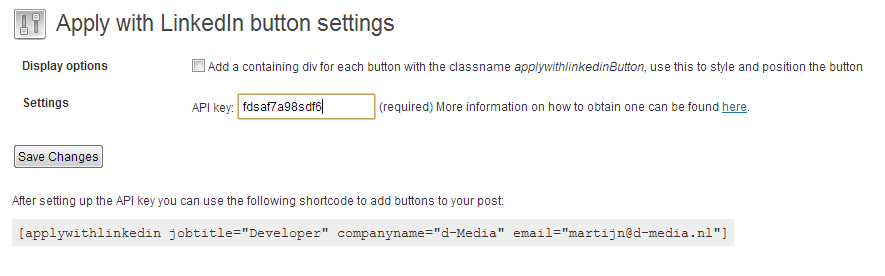
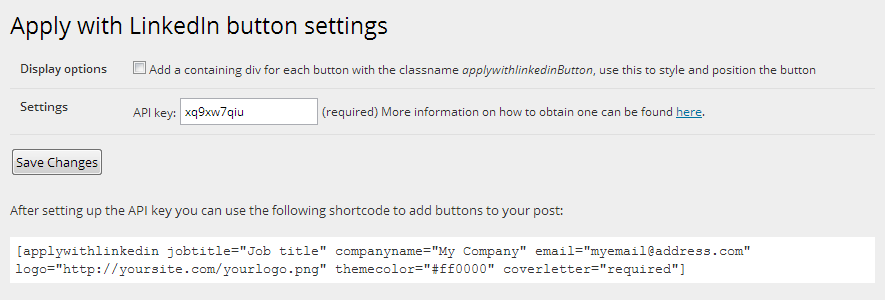
tagging version 1.1
git-svn-id: https://plugins.svn.wordpress.org/apply-with-linkedin-buttons/tags/1.1@735929 b8457f37-d9ea-0310-8a92-e5e31aec5664

diff --git a/applywithlinkedin.php b/applywithlinkedin.php
@@ -4,7 +4,7 @@ Plugin Name: Apply with LinkedIn buttons
 Plugin URI: http://wordpress.org/extend/plugins/apply-with-linkedin-buttons/
 Description: Use this plugin to easily add "Apply with LinkedIn" buttons to job opening posts and lets you customize them
 Author: Martijn Heesters - d-Media
-Version: 1.0
+Version: 1.0.1
 Author URI: http://d-media.nl
 */
 
@@ -28,7 +28,7 @@ function add_applywithlinkedin_js(){
 }
 
 // shortcode for adding linkedin buttons to post
-//[applywithlinkedin jobtitle="Developer" companyname="d-Media" email="martijn@d-media.nl"]
+//[applywithlinkedin jobtitle="Job title" companyname="My Company" email="myemail@address.com" logo="http://yoursite.com/yourlogo.png" themecolor="#ff0000" coverletter="required"]
 function applywithlinkedin_sc_func( $atts ) {
 	extract( shortcode_atts( array(
 		'jobtitle' => '',
@@ -36,21 +36,25 @@ function applywithlinkedin_sc_func( $atts ) {
 		'email' => '',
 		'logo' => '',
 		'themecolor' => '',
+		'coverletter' => ''
 	), $atts ) );
-	// clean vars
-	$jobtitle=strip_tags($jobtitle);
-	$companyname=strip_tags($companyname);
-	$email=strip_tags($email);
-	$logo=strip_tags($omschrijving);
-	$themecolor=strip_tags($themecolor);
-	if ($logo != ''){ $logo='data-logo="'.$logo.'"'; }
-	if ($themecolor != ''){ $themecolor='data-themecolor="'.$themecolor.'"'; }
-	// build button
-	$result='<script type="IN/Apply" data-jobtitle="'.$jobtitle.'" data-email="'.$email.'" data-companyname="'.$companyname.'" '.$logo.' '.$themecolor.' ></script>';
-	// add div for styling
-	if ( get_option( 'applywithlinkedin_divstyling' ) == 1){ $result='<div class="applywithlinkedinButton">'.$result.'</div>'; }
-	// return button
-	return $result;
+	// check if set email address is my work email address (author). Some people won't change it so i get spammed
+	if ( $email == 'martijn@d-media.nl'){
+		return 'Please notify website administrator to check the email addresses used in the shortcodes of the "Apply with LinkedIn" plugin. The current address is still set to the authors email address';
+	} else {
+		// clean vars
+		if (( $coverletter != 'optional' ) && ( $coverletter != 'required' ) ){	$coverletter = 'hidden'; } // optional, required or hidden (default)
+		$logo = sanitize_text_field( $logo ); // http://www.xyzcompany.com/images/logo.png
+		if ($logo != ''){ $logo='data-logo="'.$logo.'"'; }
+		$themecolor = sanitize_text_field( $themecolor ); // #ff0000
+		if ($themecolor != ''){ $themecolor='data-themecolor="'.$themecolor.'"'; }
+		// build button
+		$result='<script type="IN/Apply" data-jobtitle="'.sanitize_text_field($jobtitle).'" data-email="'.sanitize_text_field($email).'" data-companyname="'.sanitize_text_field($companyname).'" '.$logo.' '.$themecolor.' data-coverLetter="'.$coverletter.'"></script>';
+		// add div for styling
+		if ( get_option( 'applywithlinkedin_divstyling' ) == 1){ $result='<div class="applywithlinkedinButton">'.$result.'</div>'; }
+		// return button
+		return $result;
+	}
 }
 add_shortcode( 'applywithlinkedin', 'applywithlinkedin_sc_func' );
 
@@ -114,7 +118,9 @@ function applywithlinkedin_options_page(){
             </form>
 
 			After setting up the API key you can use the following shortcode to add buttons to your post:<br /><br />
-			<span style="font-family: Courier;font-size: 14px;background-color: #eeeeee;padding: 5px;">[applywithlinkedin jobtitle="Developer" companyname="d-Media" email="martijn@d-media.nl"]</span>
+			<span style="display:block;font-family: Courier !important;font-size: 14px;background-color: #fff;padding: 5px;">[applywithlinkedin jobtitle="Job title" companyname="My Company" email="myemail@address.com" logo="http://yoursite.com/yourlogo.png" themecolor="#ff0000" coverletter="required"]</span>
+			<br />
+			Note that setting a logo, theme color or cover letter is optional. The possible values for cover letter are: optional, required and hidden default).
 			
 	</div>
 	<?php
